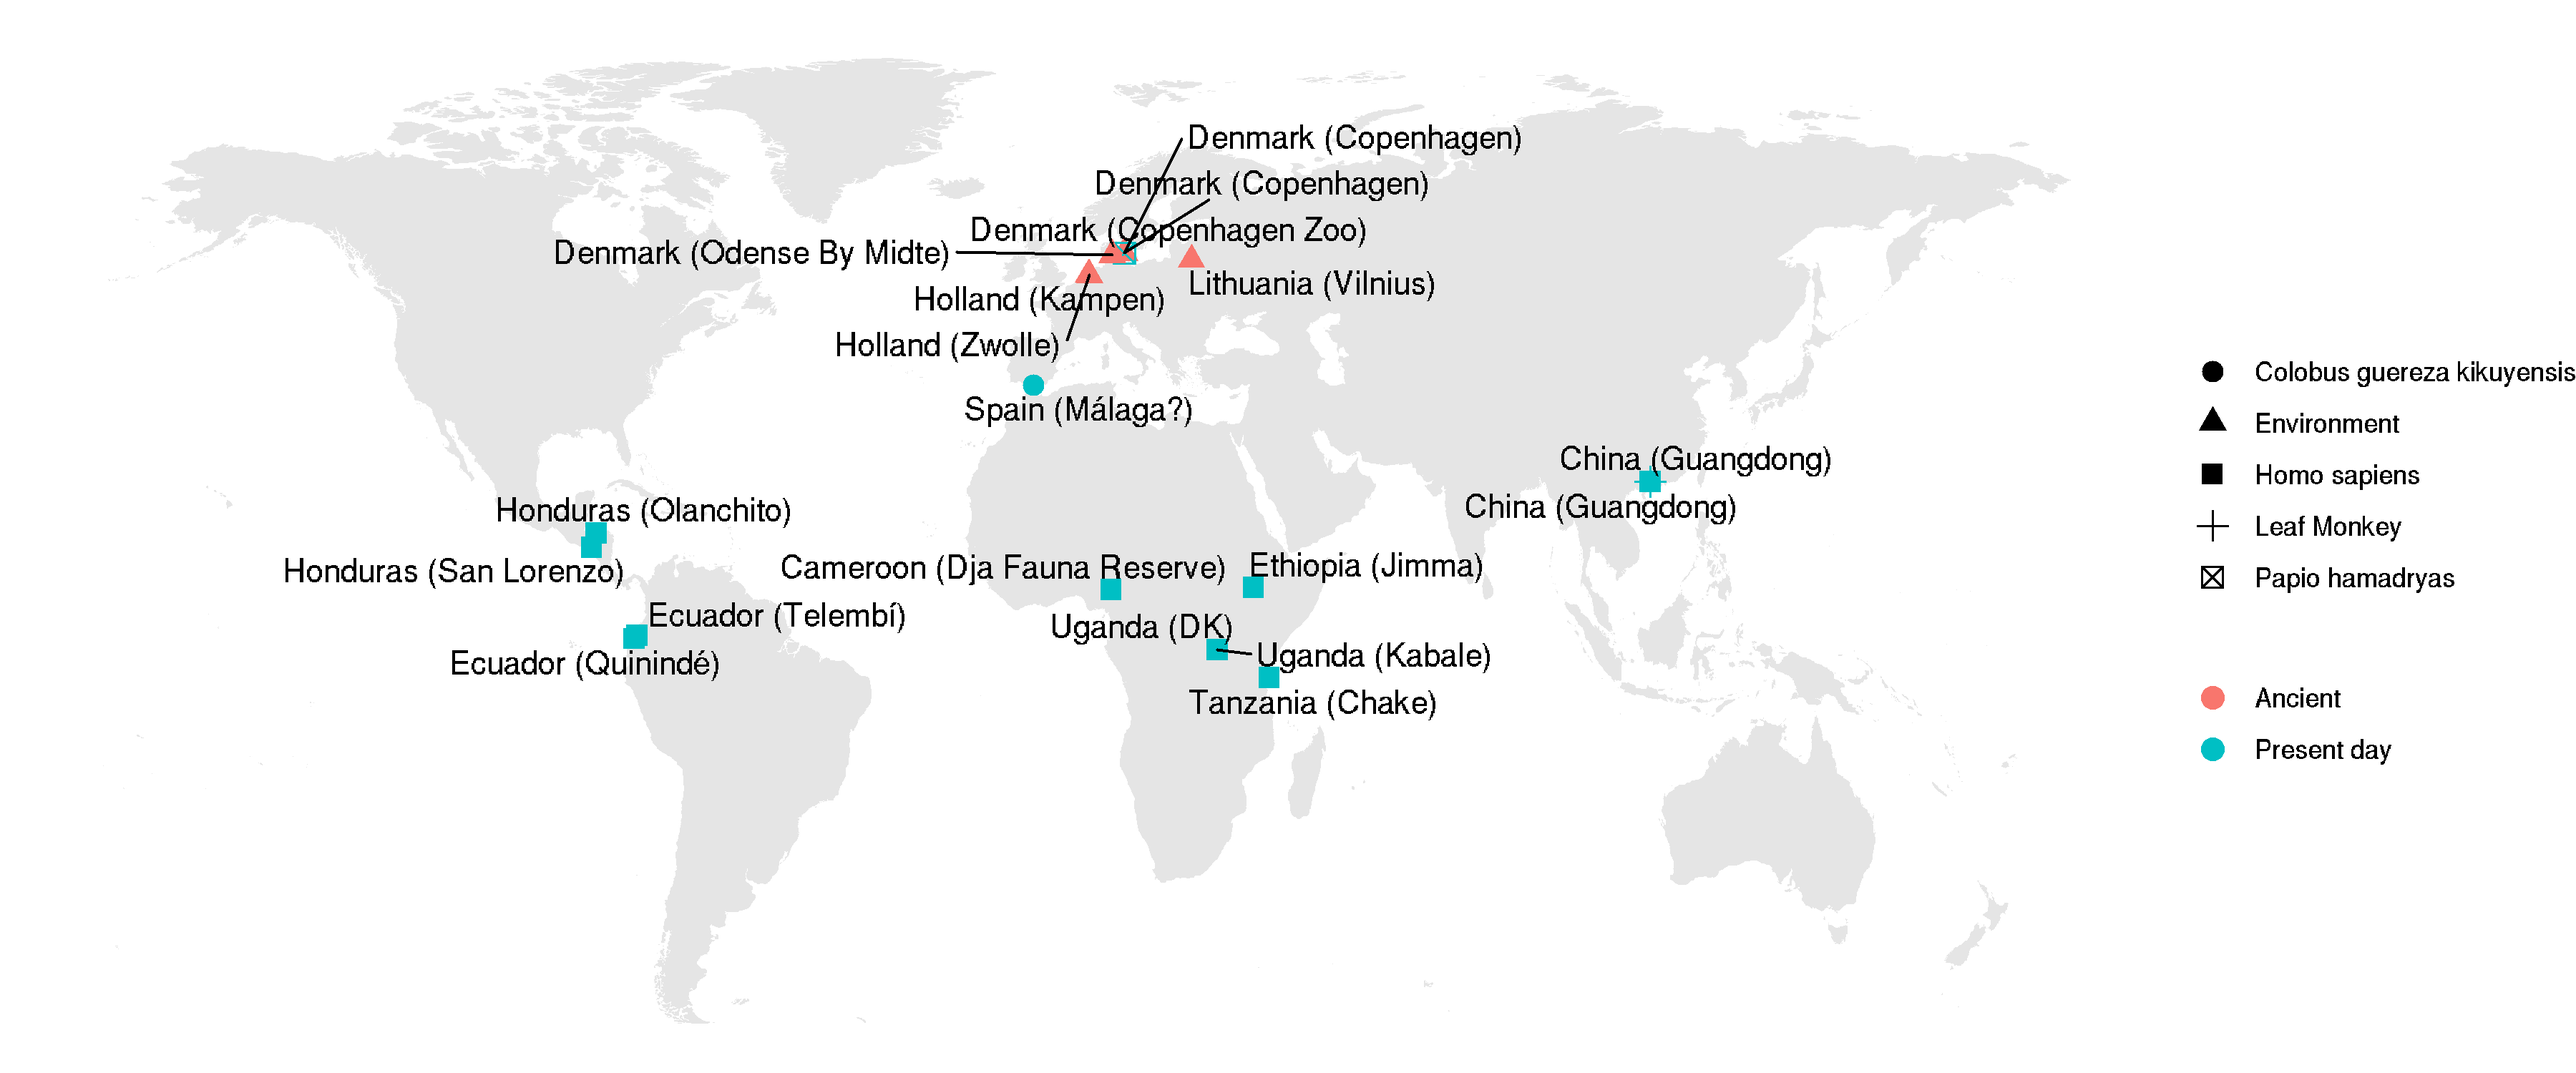
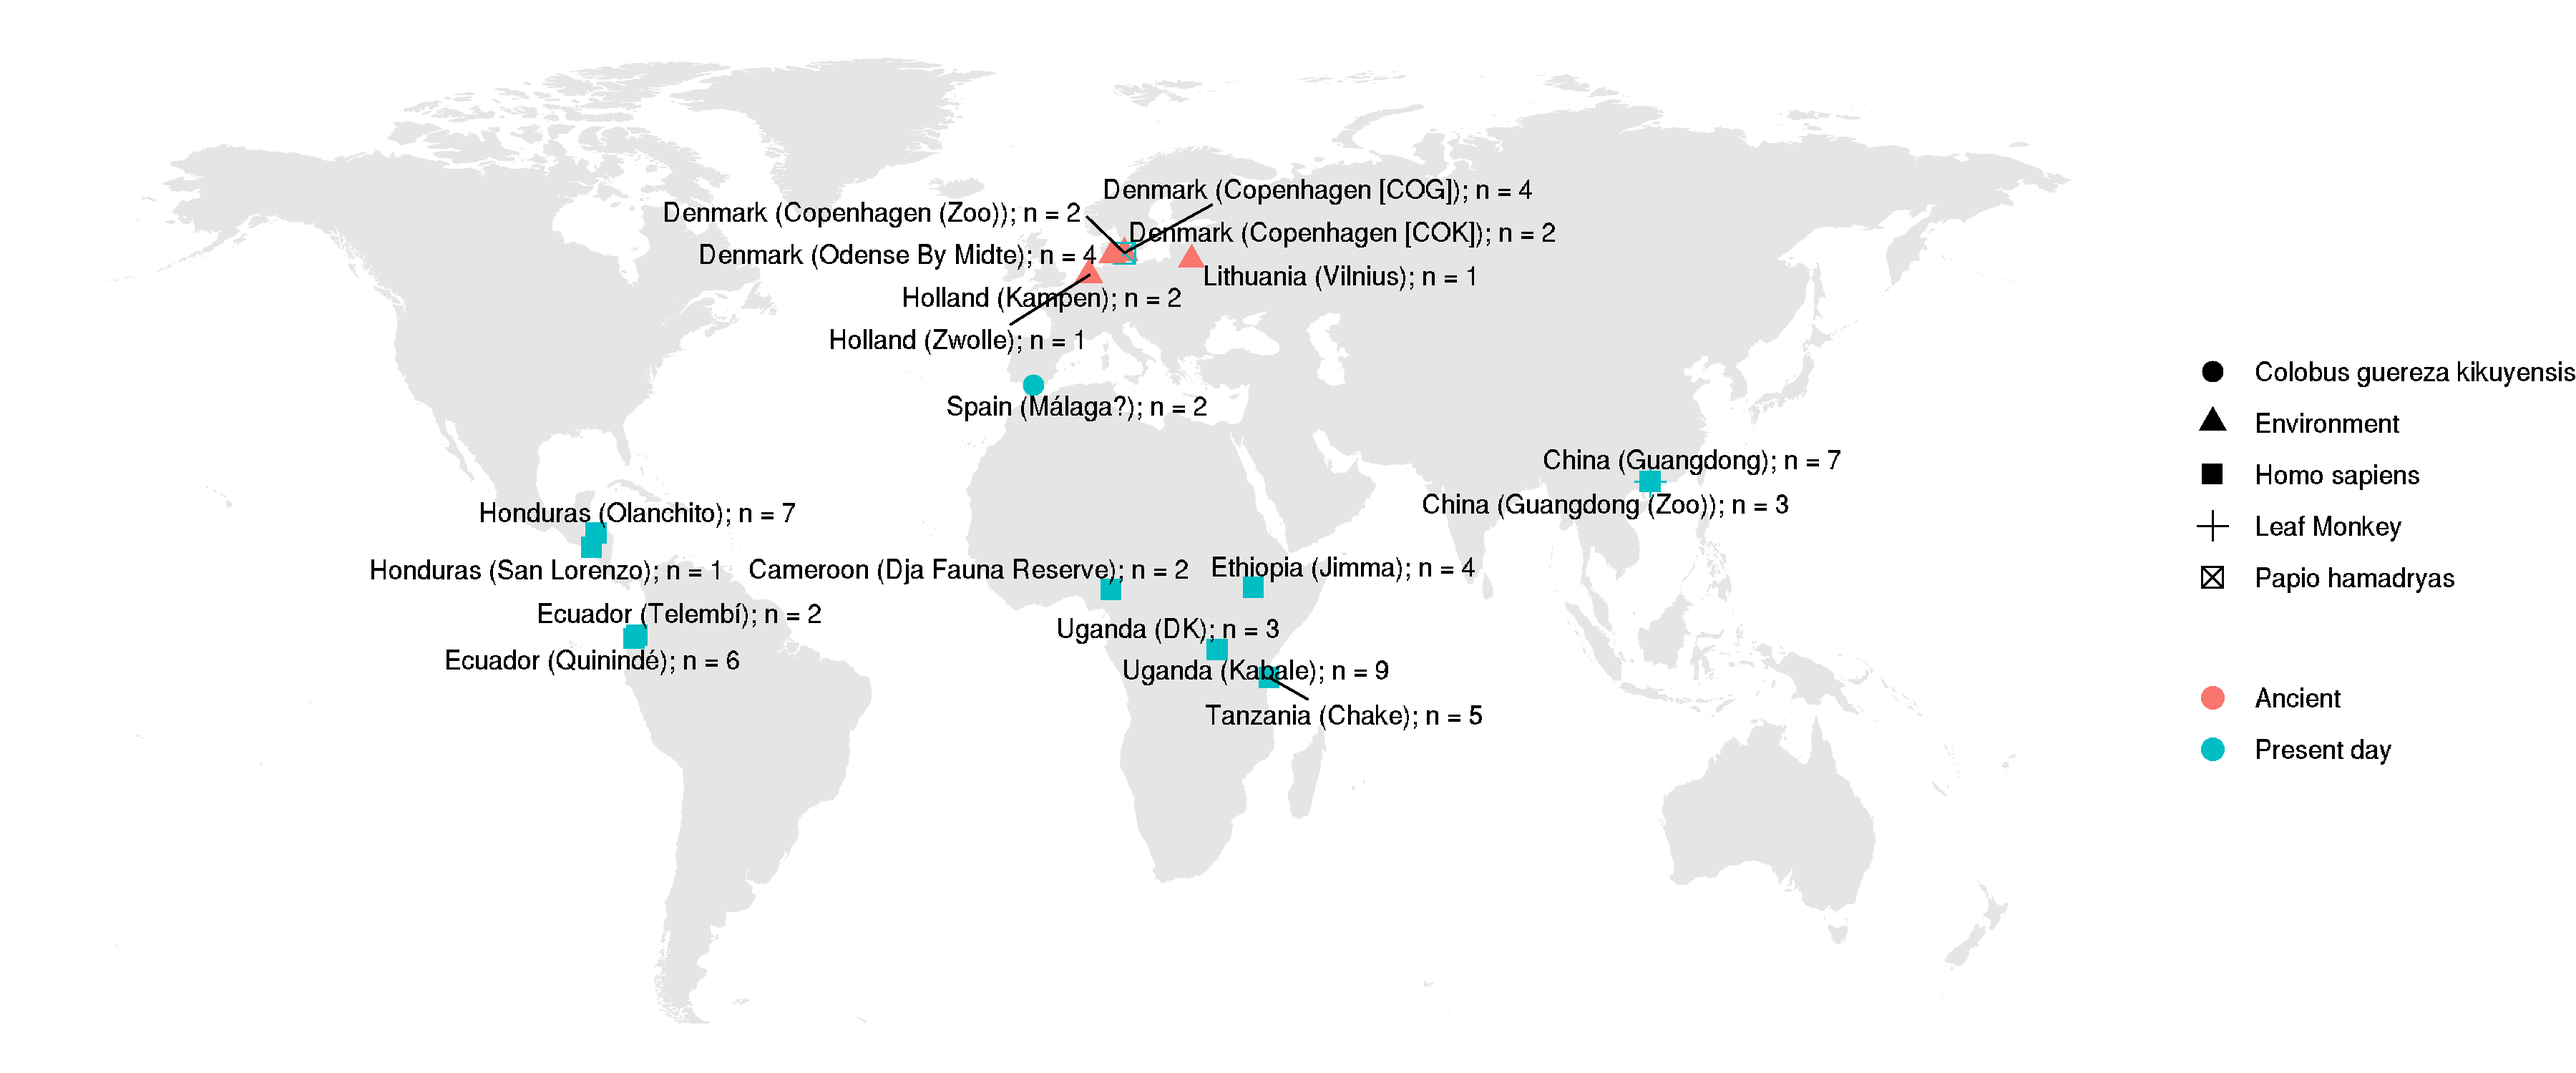
update

diff --git a/03_code/ancient_trichuris.workbook.md b/03_code/ancient_trichuris.workbook.md
@@ -506,6 +506,8 @@ samtools index ${NAME}.trimmed.bam
 ## World sampling map
 Given it is a "global diversity" study, worth having a world map with sampling sites, distinction between ancient and modern samples, and the fact that some some from humans, animals, and the environment (ancient).
 ```R
+setwd("/nfs/users/nfs_s/sd21/lustre118_link/trichuris_trichiura/05_ANALYSIS/MAP")
+
 # load libraries
 library(ggplot2)
 library(dplyr)
@@ -523,12 +525,14 @@ data <- read.table("map_metadata.txt", header=T, sep="\t")
 ggplot() +
   geom_polygon(data = world_map, aes(x = world_map$long, y = world_map$lat, group = world_map$group), fill="grey90") +
   geom_point(data = data, aes(x = LONG, y = LAT, colour = SAMPLE_AGE, shape = SAMPLE_LOCATION), size=3) +
-  geom_text_repel(data = data, aes(x = LONG, y = LAT, label = paste0(COUNTRY," (",REGION,")"))) +
+  geom_text_repel(data = data, aes(x = LONG, y = LAT, label = paste0(COUNTRY," (",REGION,"); n = ", SAMPLE_N)), size=3) +        
   theme_void() +
   ylim(-55,85) +
   labs(colour="", shape="")
 
+# save it
 ggsave("worldmap_samplingsites.png", height=5, width=12)
+#ggsave("worldmap_samplingsites.pdf", height=5, width=12)
 ```
 ![worldmap_samplingsites](../04_analysis/worldmap_samplingsites.png)
 
